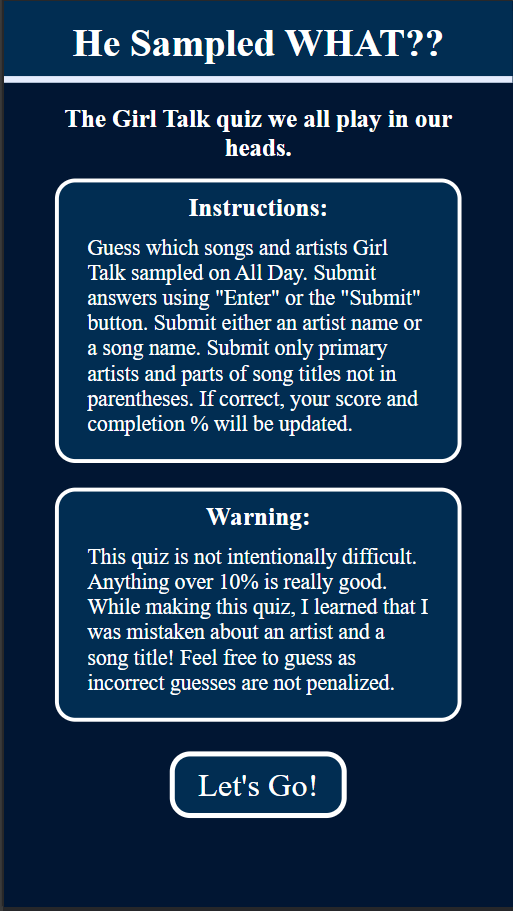
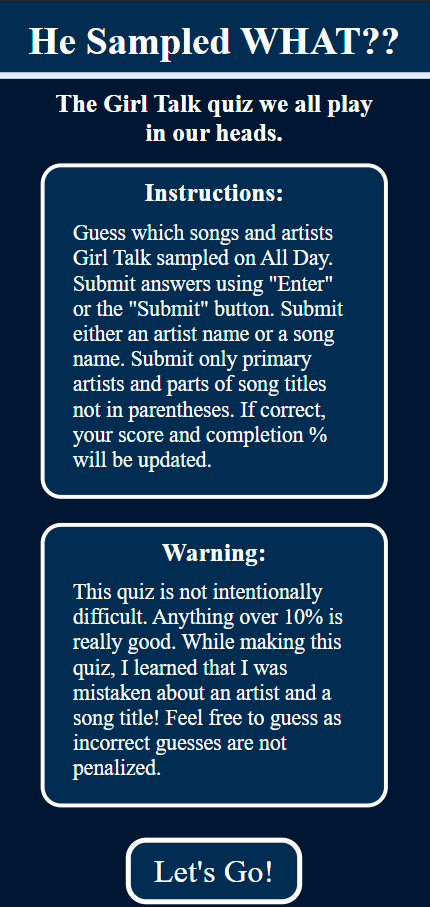
readme: adjust image sizes and add content and screenshots

diff --git a/README.md b/README.md
@@ -30,23 +30,31 @@ The expected user is interested in music and perhaps very interested in Girl Tal
 ### Wireframes
 After the initial brainstorming, I used Balsamiq to make some wireframes for the mobile and desktop versions of the site. Further development necessitated deviation from these initial plans.
 
-![Mobile site wireframe](/assets/images/screenshots/wireframe-mobile.png)
-
-![Desktop site wireframe](/assets/images/screenshots/wireframe-desktop.png)
+<img alt="Mobile site wireframe" src="./assets/images/screenshots/wireframe-mobile.png" height="250px" width="150px">
 
 Due to space limitations, the instructions were moved to a landing page. An area was also added for displaying feedback to the user.
+
+<img alt="Desktop site wireframe" src="./assets/images/screenshots/wireframe-desktop.png" height="350px" width="550px">
+
+
 
 ## Features <a name="features"></a>
 ### Features
 <!--needs screenshots-->
 #### Landing Page
+User stories:
+- As a user, I visit the landing page and read the instructions for the game. I am told what kinds of answers to submit. I am told incorrect guesses are not penalized. I am told to be very happy with 10% completion on a song.
+- As a user, I click on the "Let's Go" link and am taken to the game page. My cursor is in the input field.
+
 The landing page contains instructions for the game. The instructions explains what type of quiz this is and what types of answers to submit. The landing page also contains a "Warning" paragraph about the difficulty of the quiz. It is meant to encourage players who are unfamiliar with Girl Talk.
 
-![Landing page on desktop](/assets/images/screenshots/landing-page-desktop.png)
+<img alt="Landing page on desktop" src="./assets/images/screenshots/landing-page-desktop.png" height="350px" width="575px">
+
 On the left are instructions for the game. On the right is a warning about the difficulty of the quiz. (If you wish to cheat, please see <!-- loose end --> for a link to the answers.)
 Below these, there is a button which takes users to the main game page.
 
-![Landing page on mobile](/assets/images/screenshots/landing-page-mobile.png)
+<img src="./assets/images/screenshots/landing-page-mobile.png" alt="Landing page on mobile" height="300px" width="150px">
+
 On mobile, these elements are displayed vertically.
 
 #### Game Page
@@ -57,8 +65,9 @@ The game page displays the song title and album name. This informs the user whic
 
 There is an answer area with an input field. It is labelled with "Song/Artist" to remind the user they should be entering only one, and not both a song and artist. The answer can be submitted using the enter key or by clicking/tapping the "Submit Answer" button.
 
-Once the user submits an answer, it is processed into a normalized format. This is to avoid simple errors like "the ramones" or "Mia" when the official answers would be "Ramones" and "M.I.A.", respectively. Feedback is then displayed to the user related to their submission. This is what would be displayed if a user submitted the same guess an additional time.
-![Feedback area upon resubmit mobile](/assets/images/screenshots/feedback-resubmit-mobile.png) 
+Once the user submits an answer, it is processed into a normalized format. This is to avoid simple errors like "the ramones" or "Mia" when the official answers would be "Ramones" and "M.I.A.", respectively. Feedback is then displayed to the user related to their submission. It tells them if their guess was correct. If they have already submitted that guess, it encourages them to try something new. This is what would be displayed if a user submitted the same guess an additional time.
+![Feedback area upon resubmit mobile](/assets/images/screenshots/feedback-resubmit-mobile.png)
+
 
 There are two score related areas. In mobile, they are next to each other. 
 ![Score area on mobile](/assets/images/screenshots/score-area-mobile.png)
@@ -68,17 +77,15 @@ To prevent overflow of these areas, a function catches any submission with conta
 ![Feedback for nonsense submission on mobile](/assets/images/screenshots/nonsense-feedback-mobile.png)
 
 
-On larger screens, they are on either side of the video. The guesses are logged as they are stored in the solutions. For example, Jay z will be counted as correct but logged as Jay-Z. The right area has a completion percentage at the top. This indicates how many remaining correct answers there are (artists and songs). Incorrect guesses are logged, as the user submitted, beneath the completion percentage.
+On larger screens, they are on either side of the video.
+![Score area on Desktop](/assets/images/screenshots/score-area-desktop.png)
 
-Between the video and the input area, there is a feedback area. This is hidden prior to any guesses being submitted by the user. Once a guess is submitted, this area is populated by a relevant message. It informs the user if the guess is correct. If the guess was already submitted, it encourages the user to try something new.
 
 For navigation, there are three buttons at the bottom of the page. The left arrow button loads the game for the previous track on the album. The right arrow button loads the game for the next track on the album. Loading the game for a different track resets the score, percentage, and logging areas. The back button takes the user back to the landing page with instructions.
+![Navigation buttons desktop](/assets/images/screenshots/navigation-buttons-desktop.png)
 
 ### User stories
 #### Landing Page
-As a user, I visit the landing page and read the instructions for the game. I am told what kinds of answers to submit. I am told incorrect guesses are not penalized. I am told to be very happy with 10% completion on a song.
-
-As a user, I click on the "Let's Go" link and am taken to the game page. My cursor is in the input field.
 
 #### Game Page
 
